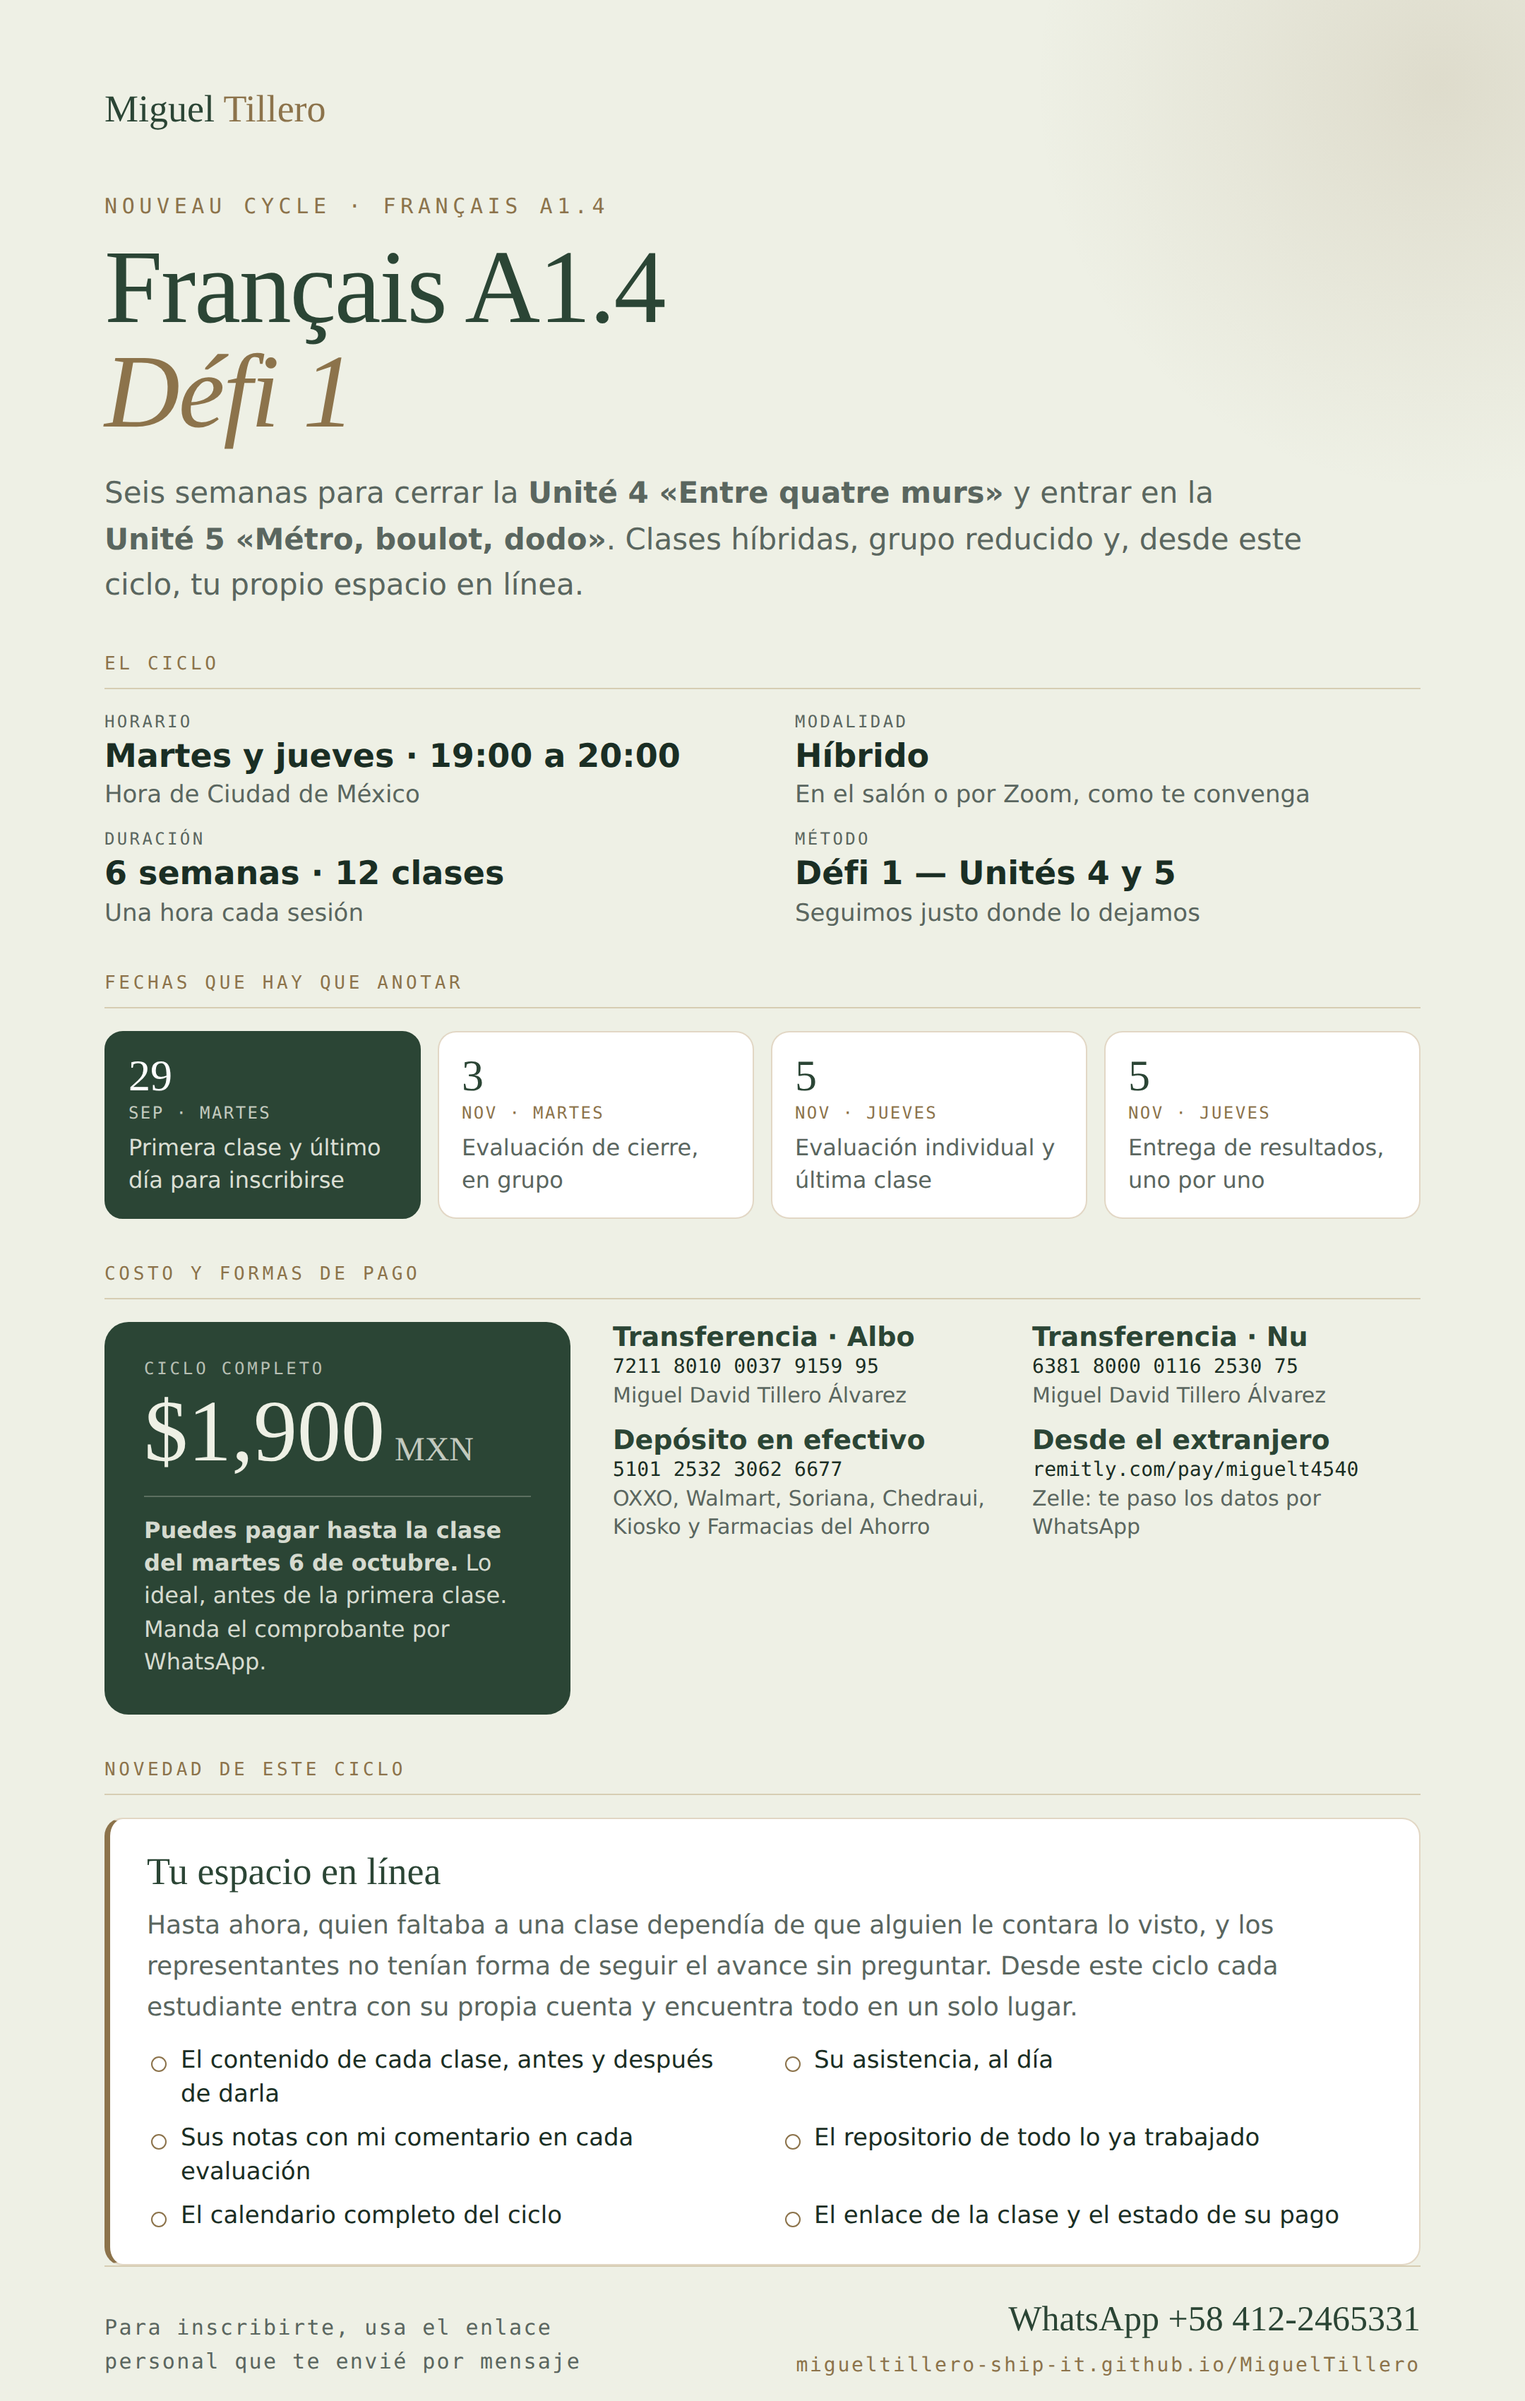
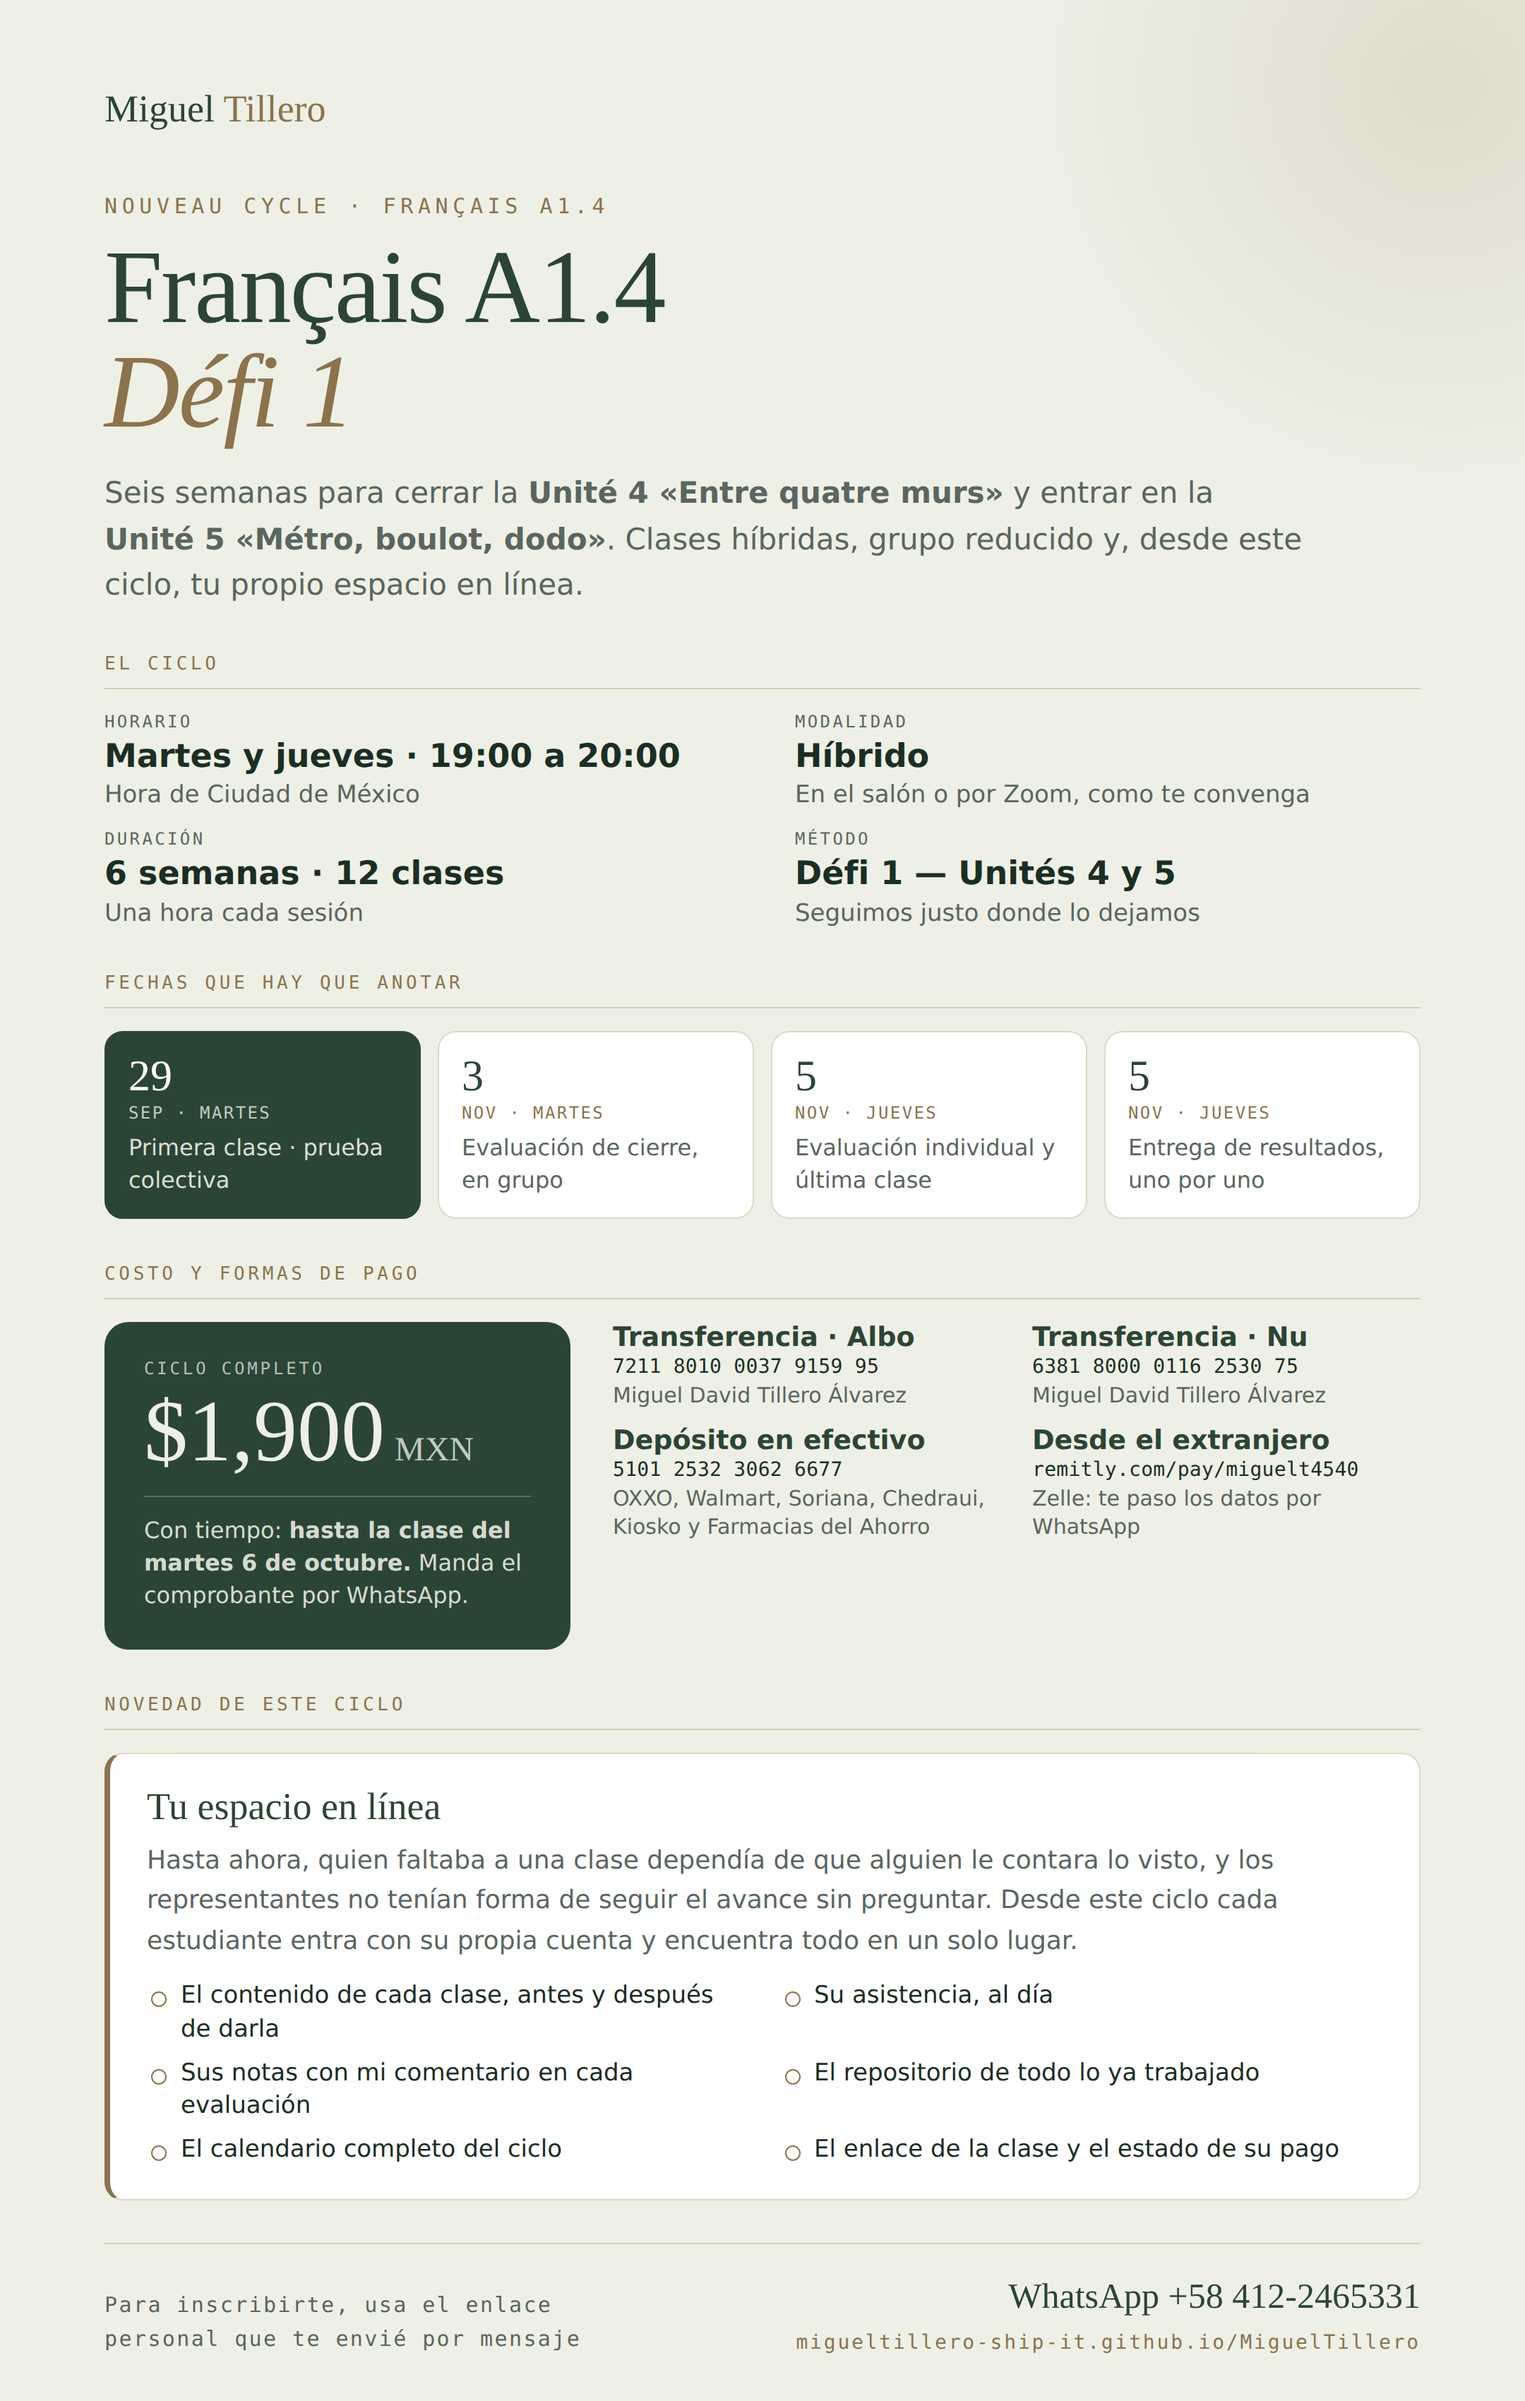
El mensaje ofrece antes de cobrar
El texto abría con el precio y la fecha límite, como si lo primero fuera
el cobro. Ahora abre con la clase de mañana y con las dos pruebas de
cierre del ciclo anterior, sigue con el espacio en línea de cada
estudiante, y el pago aparece una sola vez al final, de pasada y sin
fecha límite en negrita.

En la infografía, el 29 de septiembre pasa a decir «Primera clase ·
prueba colectiva», que es lo que de verdad ocurre ese día, y el recuadro
del precio deja de sonar a plazo vencido.

Claude-Session: https://claude.ai/code/session_016gU5sFNPw9yp4WWQLSnViQ

Changed region(s): [[0.062, 0.6235, 0.9306, 0.9976], [0.1861, 0.4676, 0.2481, 0.4988], [0.0931, 0.4676, 0.1551, 0.4988]]

diff --git a/materiales/infografia-ciclo-a1-oct2026.html b/materiales/infografia-ciclo-a1-oct2026.html
@@ -138,7 +138,7 @@ h1 em { font-style: italic; color: var(--oro); }
             <div class="hito fuerte">
                 <div class="d">29</div>
                 <div class="m">Sep · martes</div>
-                <div class="q">Primera clase y último día para inscribirse</div>
+                <div class="q">Primera clase · prueba colectiva</div>
             </div>
             <div class="hito">
                 <div class="d">3</div>
@@ -164,8 +164,8 @@ h1 em { font-style: italic; color: var(--oro); }
             <div class="precio-caja">
                 <div class="et">Ciclo completo</div>
                 <div class="cifra">$1,900<small>MXN</small></div>
-                <div class="lim"><b>Puedes pagar hasta la clase del martes 6 de octubre.</b>
-                    Lo ideal, antes de la primera clase. Manda el comprobante por WhatsApp.</div>
+                <div class="lim">Con tiempo: <b>hasta la clase del martes 6 de octubre.</b>
+                    Manda el comprobante por WhatsApp.</div>
             </div>
             <div class="metodos">
                 <div class="metodo">

diff --git a/materiales/mensaje-whatsapp-ciclo-a1-oct2026.md b/materiales/mensaje-whatsapp-ciclo-a1-oct2026.md
@@ -11,41 +11,49 @@ La infografía que acompaña este mensaje es `infografia-ciclo-a1-oct2026.png`.
 mensaje. Si lo pones como descripción de la foto, WhatsApp lo corta con un
 «ver más». Los asteriscos salen en negrita al pegarlo, así que cópialo tal cual.
 
+**El orden importa.** El mensaje abre con la clase y con lo que los chicos van
+a recibir; el pago aparece una sola vez, al final, y dicho de pasada. Lo
+primero que se lee no puede ser un cobro.
+
 ```
 Buenas tardes a todos 👋
 
-Les comparto la información del *nuevo ciclo de Francés A1.4*, que comienza el *martes 29 de septiembre*.
+*Mañana martes 29 arrancamos el nuevo ciclo de Francés A1.4*, a las 7:00 p.m.
 
-En la imagen tienen todos los detalles. Lo esencial:
+Empezamos cerrando lo anterior, como habíamos quedado: mañana martes la *prueba colectiva* y el jueves 1 la *prueba oral*, individual. A partir de ahí seguimos con la *Unité 4* y entramos en la *Unité 5*.
 
 📅 Del *martes 29 de septiembre* al *jueves 5 de noviembre*
 🕖 *Martes y jueves, de 7:00 a 8:00 p.m.*
 🏫 Modalidad *híbrida*: en el salón o por Zoom, como les convenga
-💰 *$1,900 MXN* el ciclo completo
-⏳ Con calma: pueden pagar *hasta la clase del martes 6 de octubre*. Lo ideal es antes de hoy al mediodía, pero tienen la semana.
+📘 *6 semanas · 12 clases*
 
-Las *evaluaciones de cierre* serán el *martes 3 de noviembre* (en grupo) y el *jueves 5* (individual). Ese mismo jueves entrego los *resultados*, uno por uno.
+Las *evaluaciones de cierre* de este ciclo serán el *martes 3 de noviembre* (en grupo) y el *jueves 5* (individual). Ese mismo jueves entrego los resultados, uno por uno. Así el ciclo cierra completo y el siguiente arranca con clase, no con exámenes.
 
-*Una novedad de este ciclo*
+*Y hay una novedad que les va a servir*
 
-A partir de ahora cada estudiante tendrá *su propio espacio en línea*. Ahí van a encontrar el contenido de cada clase, la asistencia, las notas con mi comentario y todo el material que hemos trabajado.
+Desde este ciclo cada estudiante tiene *su propio espacio en línea*. Ahí van a encontrar el contenido de cada clase, su asistencia, sus notas con mi comentario y todo el material que hemos trabajado hasta ahora.
 
-Lo hice pensando en dos cosas: que quien falte a una clase no dependa de que se la cuenten, y que ustedes puedan seguir el avance de sus hijos sin tener que preguntarme.
+Lo preparé pensando en dos cosas: que quien falte a una clase no dependa de que se la cuenten, y que ustedes puedan seguir el avance de sus hijos sin tener que preguntarme.
 
-*Es muy sencillo de usar.* La plataforma los va guiando paso a paso; solo hay que seguir lo que indica la pantalla.
+*Es muy sencillo.* La plataforma va guiando paso a paso; solo hay que seguir lo que indica la pantalla.
 
-*En unos minutos les envío a cada uno, por privado, su enlace personal de inscripción* para que puedan darse de alta.
+*En unos minutos les envío a cada uno, por privado, su enlace personal* para que puedan entrar.
 
-⚠ Un detalle importante: al registrarse *recibirán un correo de verificación* que deben confirmar para activar la cuenta. Si no lo ven en la bandeja de entrada, *revisen la carpeta de correo no deseado*.
+En la imagen tienen el detalle completo del ciclo, incluidas las formas de pago. Si pueden dejarlo resuelto mañana, perfecto; y si necesitan unos días, tienen hasta la clase del martes 6 sin ningún problema.
 
-Cualquier duda —sobre la inscripción, el pago o la plataforma— escríbanme por aquí con toda confianza.
+Cualquier duda, por aquí estoy.
 
-¡Nos vemos el martes!
+¡Nos vemos mañana! 🇫🇷
 Miguel
 ```
 
-> **Si ya conectaste el correo propio** (ver `GUIA-correo-resend.md`), quita el
-> párrafo del ⚠: deja de hacer falta y resta confianza.
+> **Añade este párrafo antes de la despedida SOLO si todavía no conectaste el
+> correo propio** (ver `GUIA-correo-gmail.md`). Si ya lo hiciste, no lo pongas:
+> sembrar dudas sobre el spam cuando no hace falta resta confianza.
+>
+> ```
+> ⚠ Un detalle: al registrarse recibirán un correo de verificación que deben confirmar para activar la cuenta. Si no lo ven en la bandeja de entrada, revisen la carpeta de correo no deseado.
+> ```
 
 ---
 
@@ -57,17 +65,17 @@ va en el grupo.**
 ```
 Hola *[nombre del representante]*, buenas tardes 👋
 
-Este es el enlace personal de *[nombre del estudiante]* para darse de alta en la plataforma:
+Este es el enlace personal de *[nombre del estudiante]* para entrar a la plataforma:
 
 [ENLACE]
 
 Solo hay que abrirlo, llenar los datos y crear una contraseña. El curso ya viene seleccionado, no hay que buscar nada.
 
-Después de registrarse llegará un correo de verificación: hay que abrirlo y confirmar para activar la cuenta. *Si no aparece en la bandeja de entrada, revisen el correo no deseado.*
+Después llegará un correo de verificación: hay que abrirlo y confirmar para activar la cuenta. *Si no aparece en la bandeja de entrada, revisen el correo no deseado.*
 
-Ya dentro, van a ver el calendario del ciclo, el enlace de Zoom, el material y, a partir de las evaluaciones, las notas con mi comentario.
+Ya dentro van a ver el calendario del ciclo, el enlace de Zoom, el material de todo lo que hemos trabajado y, a partir de las evaluaciones, las notas con mi comentario.
 
-Cualquier cosa me escriben. ¡Nos vemos el martes!
+Cualquier cosa me escriben. ¡Nos vemos mañana!
 ```
 
 ### Los tres enlaces
